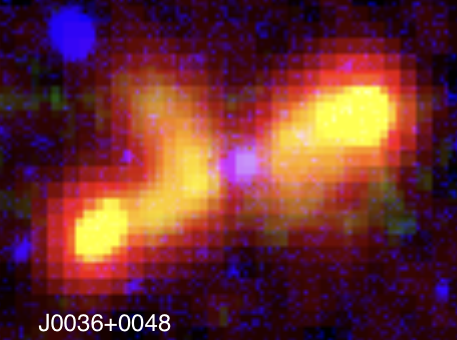
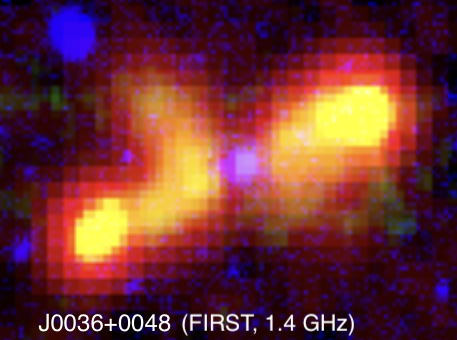
Add to xrg caption.

Changed region(s): [[0.5821, 0.9118, 0.7965, 1.0], [0.3982, 0.9118, 0.5514, 1.0]]

diff --git a/gravwaves.html b/gravwaves.html
@@ -43,8 +43,8 @@
 								Simulating GWs with <span style="font-family: monospace;">holodeck</span>
 							</h2>
 							<p>
-								<span style="font-family: monospace;">holodeck</span> is a framework developed by Luke Z. Kelley, with contributions from myself and other members of the NANOGrav Astrophysics Working Group, 
-								to generate semi-analytic populations of SMBHBs, evolve them in time and separation to the PTA-regime of frequencies, and simulate the GWs they produce. 
+								<span style="font-family: monospace;">holodeck</span> is a python package that synthesizes semi-analytic populations of SMBHBs, evolves them in time and separation to the PTA-regime of frequencies, and simulates the GWs they produce, 
+								developed by Luke Z. Kelley, with contributions from myself and other members of the NANOGrav Astrophysics Working Group. 
 								Using <span style="font-family: monospace;">holodeck</span>, we demonstrated that the GWB measured in the 15-year NG data can be reproduced by a population of SMBHBs 
 								(<a href="https://iopscience.iop.org/article/10.3847/2041-8213/ace18b" >NG15 SMBHB paper</a>).
 							</p>

diff --git a/index.html b/index.html
@@ -252,6 +252,12 @@
 						</section>
 						<section>
 							<h2>Credits</h2>
+							<dt>
+								SMBHB logo:
+							</dt>
+							<dd>
+								Emiko C. Gardiner
+							</dd>
 							<dl class="cred">
 								<dt>
 									Headshot:
@@ -259,14 +265,7 @@
 								<dd>
 									Hanako R. Gardiner
 								</dd>
-								<dt>
-									SMBHB logo:
-								</dt>
-								<dd>
-									Emiko C. Gardiner
-								</dd>
 							</dl>
-							<p>Headshot by Hanako Gardiner.</p>
 						</section>
 						<p class="copyright">&copy; Emiko C. Gardiner. Design: <a href="https://html5up.net">HTML5 UP</a>.</p>
 					</footer>
